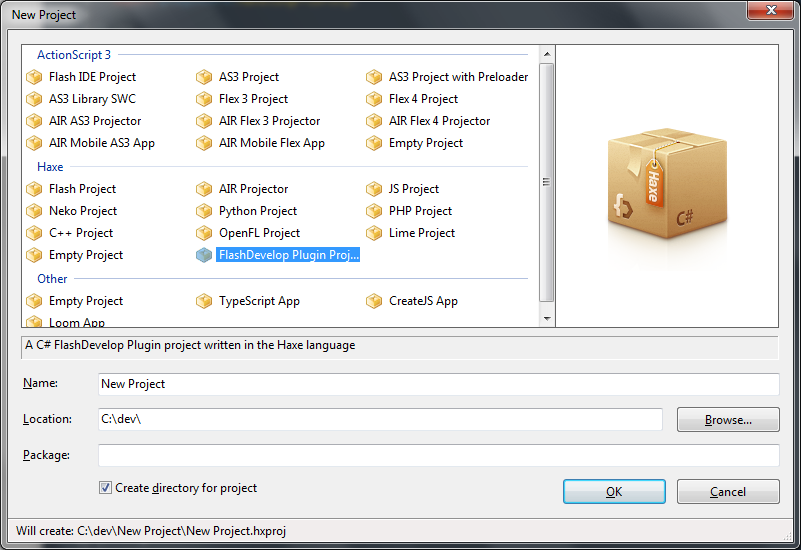
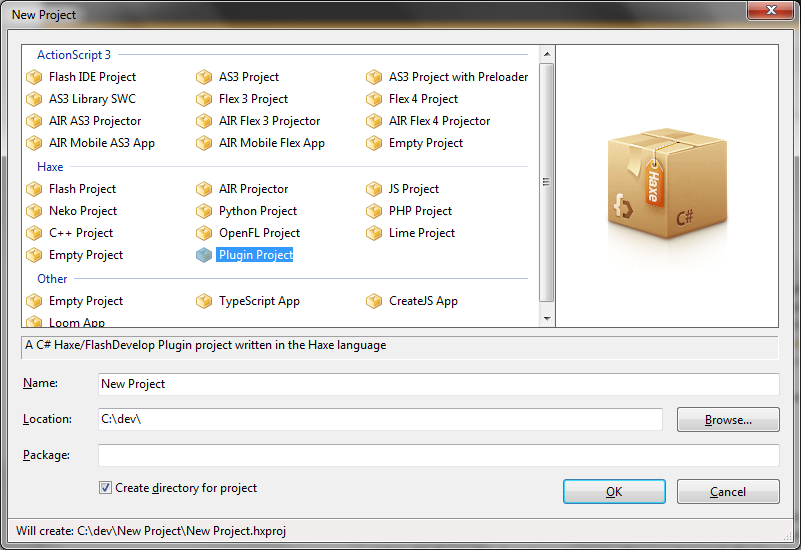
Update project name.

Changed region(s): [[0.0312, 0.0, 1.0, 1.0], [0.0624, 0.6182, 0.4994, 0.6491], [0.2809, 0.4327, 0.4682, 0.4945]]

diff --git a/README.md b/README.md
@@ -1,6 +1,6 @@
-# FD_PluginTemplate
+# HD/FD_PluginTemplate
 
-A FlashDevelop Project Template to build FD plugins in Haxe.
+A Haxe/FlashDevelop Project Template to build plugins with Haxe.
 
 ![new plugin project](new_project.png)
 
@@ -13,5 +13,5 @@ A FlashDevelop Project Template to build FD plugins in Haxe.
 
 ## Install
 
-Download the current release -  [`v1.0.0-alpha`](https://github.com/skial/FD_PluginTemplate/releases/tag/v1.0.0-alpha) - and open. FlashDevelop will ask you if it should
+Download the current release -  [`v1.0.0-alpha`](https://github.com/skial/FD_PluginTemplate/releases/tag/v1.0.0-alpha) - and open. You will be asked if it should continue to
 install the file.
